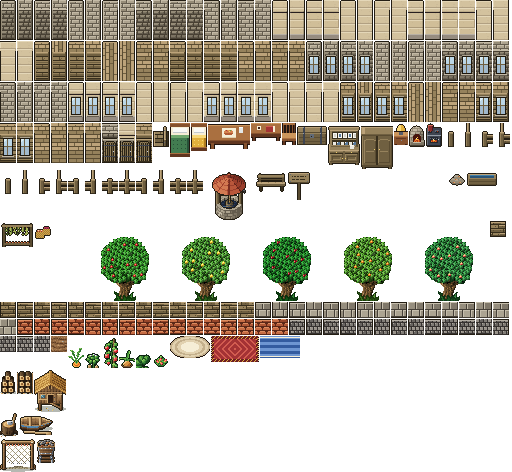
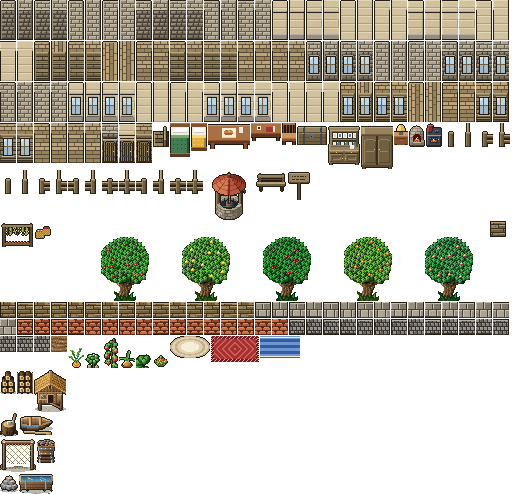
Hameaux : tas de minerai et auge redessinés en vue de haut à 45° (#588)
- Tas de minerai : pierres taillées par facettes (dessus au soleil, flanc
  gauche à mi-ombre, flanc droit à l'ombre, arête sombre contre la
  voisine), chacune son ton, veinées de cuivre et de fer, éclats
  brillants, gravier au pied, ombre (36 nuances au lieu de 6). 18 × 19,
  pied en (9, 18).
- Auge : bac de planches de chêne évasé, cerclé de fer, sur deux
  tréteaux ; rebord éclairé ; eau plus claire au fond, reflets, brins de
  paille qui flottent ; flaques au sol ; ombre (54 nuances au lieu de 7).
  34 × 21, pied en (17, 18).
- assets/hameaux.png : ces deux dessins sont ajoutés sur une nouvelle
  rangée ; le reste de la planche est inchangé.

Claude-Session: https://claude.ai/code/session_01LLRKqtL6d8W4KEV2xXtjQA

diff --git a/scripts/carte/hameaux.py b/scripts/carte/hameaux.py
@@ -179,6 +179,7 @@ LIEGE = rampe([(110, 34, 24), (176, 62, 40), (222, 108, 66), (246, 160, 112)])
 ROCHE = rampe([(44, 44, 50), (82, 82, 88), (124, 122, 124), (170, 166, 162), (212, 208, 200)])
 CUIVRE_R = rampe([(96, 46, 22), (160, 86, 42), (214, 136, 74), (246, 196, 132)])
 FERRUGINEUX = rampe([(70, 34, 26), (124, 62, 40), (176, 98, 62), (214, 146, 104)])
+EAU_R = rampe([(20, 44, 66), (36, 76, 108), (60, 116, 150), (110, 168, 196), (200, 230, 240)])
 ECORCE = rampe([(30, 20, 12), (58, 40, 24), (88, 64, 40), (120, 92, 60), (150, 120, 82)])
 
 
@@ -550,22 +551,96 @@ def wagonnet():
     return im, (9, 22)
 
 
+def caillou(t, cx, cy, rx, ry, R, s, veine=None):
+    """Une pierre taillée par facettes, vue à 45° : le dessus au soleil, le flanc gauche à mi-ombre,
+    le flanc droit à l'ombre, une arête sombre en bas et à droite ; veine : une rampe de minerai."""
+    for y in range(int(cy - ry - 1), int(cy + ry + 2)):
+        for x in range(int(cx - rx - 1), int(cx + rx + 2)):
+            u, v = (x + .5 - cx) / rx, (y + .5 - cy) / ry
+            d = u * u + v * v + 0.10 * bruit(x, y, s)
+            if d > 1:
+                continue
+            if v < -0.2 + 0.25 * u:
+                lum = 0.80 - 0.10 * u
+            elif u < 0.1:
+                lum = 0.55
+            else:
+                lum = 0.30
+            lum += 0.03 * bruit(x, y, s + 1) + 0.07 * bruit(s, 0, 5)          # chaque pierre son ton
+            lum += 0.08 * (1 - (u * u + v * v))                         # bombée au milieu
+            if d > 0.70 and (u + v) > 0.1:
+                lum -= 0.28                                            # l'arête, contre le voisin
+            c = ton(R, lum)
+            if veine and bruit(x + y, x - y, s + 2) > 0.78 and d < 0.6:
+                c = ton(veine, lum + 0.15)                              # une veine de minerai
+            t.put(x, y, c)
+
+
 def tas_minerai():
-    """Un tas de minerai : des pierres grises, des éclats de cuivre."""
-    t = Toile(16, 16)
-    for k, (x, y, r) in enumerate([(5, 11, 3.6), (11, 11, 3.6), (8, 7.5, 3.4), (8, 12, 3)]):
-        t.ellipse(x, y, r, r * 0.85, lambda u, v, k=k: PIERRE[4] if v < -0.3 and u < 0.2 else PIERRE[2] if v > 0.4 else PIERRE[3])
-    for x, y in ((6, 9), (10, 12), (9, 6), (4, 12)):
-        t.put(x, y, CUIVRE[1]); t.put(x + 1, y, CUIVRE[2])
-    return t.fini(), (8, 16)
+    """Un tas de minerai, vu de haut à 45° : des pierres taillées par facettes, éclairées en haut à
+    gauche, veinées de cuivre et de fer ; des éclats brillants ; du gravier au pied ; l'ombre."""
+    t = Toile(18, 19)
+    pierres = [(4.5, 13, 3.6, 3.0, ROCHE, CUIVRE_R), (13.5, 13.5, 3.6, 3.0, ROCHE, FERRUGINEUX),
+               (9, 14.5, 3.4, 2.8, ROCHE, None), (6.5, 9.5, 3.2, 2.8, ROCHE, FERRUGINEUX),
+               (11.5, 9.5, 3.4, 2.9, ROCHE, CUIVRE_R), (9, 6, 3.0, 2.6, ROCHE, CUIVRE_R)]
+    for k, (cx, cy, rx, ry, R, veine) in enumerate(pierres):
+        caillou(t, cx, cy, rx, ry, R, 100 + 7 * k, veine)
+    for x, y in ((8, 5), (12, 8), (4, 12), (14, 12)):                 # les éclats qui brillent
+        t.put(x, y, ton(CUIVRE_R, 1.0))
+    im = ombre_portee(t.fini(), 9, 17.3, 8.6, 2)
+    p = im.load()
+    for i in range(8):                                                # le gravier au pied
+        x = int((bruit(i, 0, 111) + 1) * 8.5)
+        y = 17 + int((bruit(i, 1, 111) + 1))
+        if 0 <= x < 18 and y < 19 and p[x, y][3] < 200:
+            p[x, y] = ton(ROCHE, 0.4 + 0.3 * bruit(i, 2, 111)) + (255,)
+    return im, (9, 18)
 
 
 def auge():
-    """L'auge de l'enclos du berger : un bac de planches, de l'eau dedans."""
-    t = Toile(32, 16)
-    boite(t, 2, 29, 14, 6, 5, [BOIS[0], BOIS[1], BOIS[2], BOIS[3], BOIS[4]], joints=3)
-    t.rect(4, 5, 27, 7, EAU[0]); t.rect(4, 5, 27, 5, EAU[1])
-    return t.fini(), (16, 16)
+    """L'auge de l'enclos du berger, vue de haut à 45° : un bac de planches de chêne évasé, cerclé
+    de fer, posé sur deux tréteaux ; le rebord éclairé ; l'eau dedans, plus claire au fond, ses
+    reflets et quelques brins de paille qui flottent ; des taches d'eau au sol ; l'ombre."""
+    t = Toile(34, 21)
+    for x0 in (4, 28):                                                # les tréteaux, aux deux bouts
+        for k in range(5):
+            t.put(x0 - 1 - k // 2, 13 + k, ton(CHENE, 0.55 - 0.05 * k))
+            t.put(x0 + 2 + k // 2, 13 + k, ton(CHENE, 0.30 - 0.03 * k))
+    for y in range(9, 16):                                            # la face avant, évasée vers le haut
+        r = (y - 9) // 3
+        for x in range(1 + r, 33 - r):
+            lum = 0.55 - 0.18 * (x / 32) - 0.12 * (y - 9) / 6 + 0.04 * bruit(x, y, 121)
+            if (y - 9) % 3 == 2:
+                lum -= 0.14                                            # le joint des planches
+            c = ton(CHENE, lum)
+            if x in (6, 7, 26, 27):
+                c = ton(ACIER, 0.62 if x in (6, 26) else 0.32)          # les cercles de fer
+            t.put(x, y, c)
+    for y in range(2, 9):                                             # le dessus : rebord et eau
+        for x in range(0, 34):
+            bord = y in (2, 8) or x in (0, 1, 32, 33)
+            if y in (2, 8) and x in (0, 33):
+                continue
+            if bord:
+                lum = 0.90 if (y == 2 or x <= 1) else 0.62
+                t.put(x, y, ton(CHENE, lum + 0.03 * bruit(x, y, 122)))
+            else:
+                lum = 0.35 + 0.30 * (y - 3) / 4 + 0.05 * bruit(x, y, 123)
+                if y == 3:
+                    lum -= 0.15                                        # l'ombre du rebord du fond
+                if (x - 2 * y) % 13 in (0, 1) and 3 < y < 7:
+                    lum += 0.25                                        # un reflet
+                t.put(x, y, ton(EAU_R, lum))
+    for x, y in ((9, 5), (10, 5), (21, 6), (22, 7)):                  # des brins de paille qui flottent
+        t.put(x, y, ton(PAILLE_R, 0.75))
+    for x in (6, 7, 26, 27):                                          # les cercles passent sur le rebord
+        t.put(x, 8, ton(ACIER, 0.7 if x in (6, 26) else 0.4))
+    im = ombre_portee(t.fini(), 17, 18, 16.5, 2.6)
+    p = im.load()
+    for x, y in ((3, 19), (4, 19), (29, 20), (30, 20), (16, 20)):     # des flaques
+        if p[x, y][3] < 200:
+            p[x, y] = ton(EAU_R, 0.35) + (255,)
+    return im, (17, 18)
 
 
 def claie():
